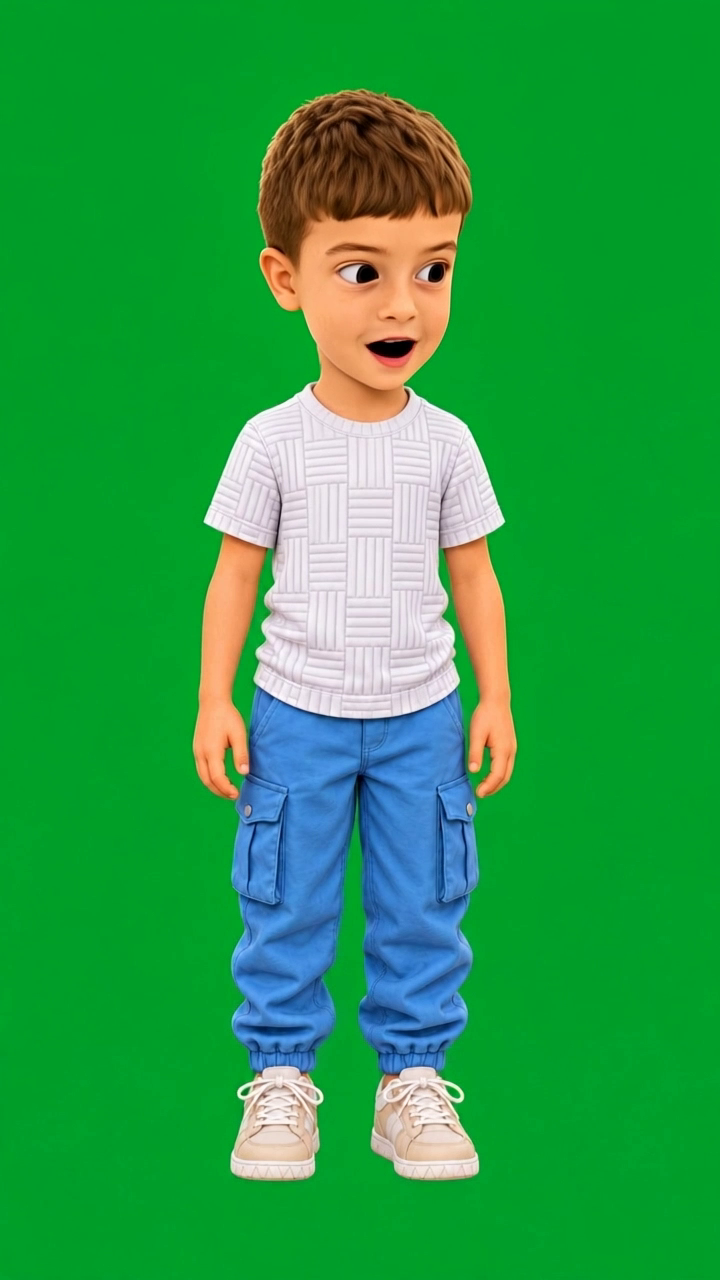
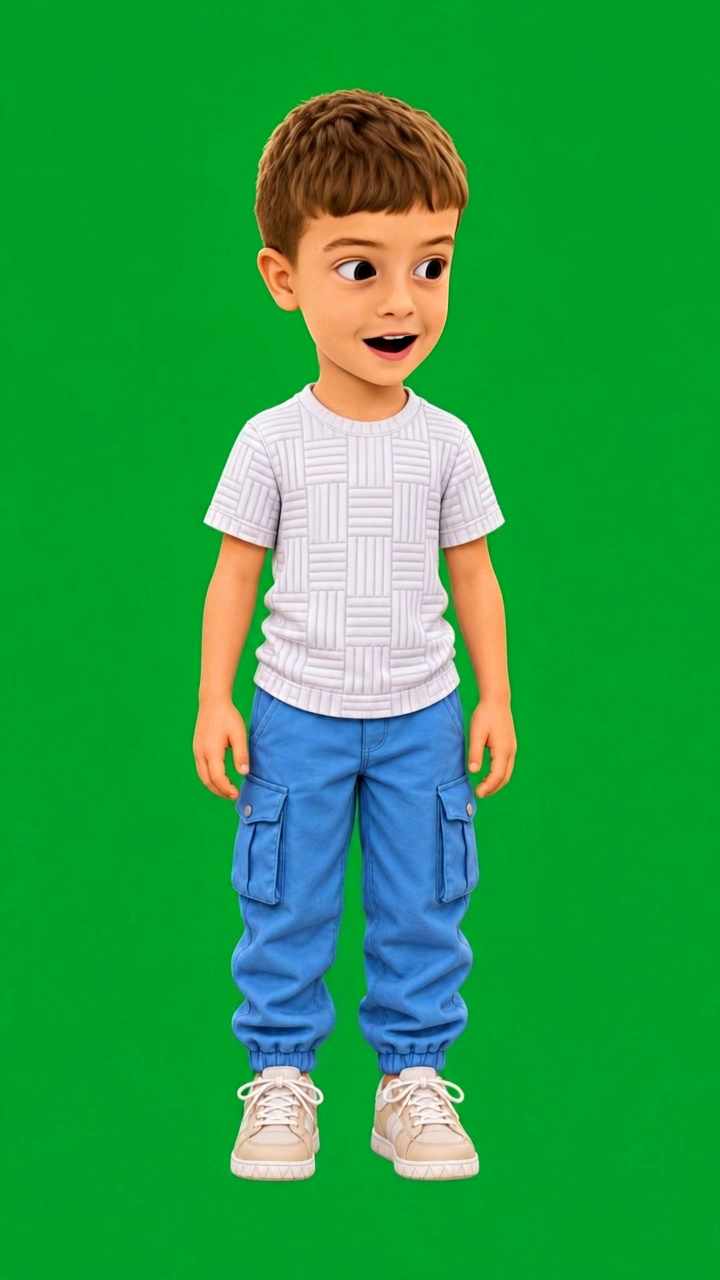
Яблоко: Лаэль говорит «עכשיו נבדוק», досмеиваясь, и сразу после смеха берёт ножик — без паузы; кто ест — сначала дожёвывает, потом говорят дальше; Арбель «рот открыт» — кадр 51 (выбор автора)

Changed region(s): [[0.3361, 0.0625, 0.6722, 0.3125], [0.4278, 0.25, 0.4583, 0.3125]]

diff --git a/js/game.js b/js/game.js
@@ -428,11 +428,13 @@ async function partA() {
   await wait(600);
   for (const l of KA.intro) await kl(l);
   hideSay();
-  const laughing = KIDS.laugh(ALL_KIDS);            // все смеются; Лаэль — «сейчас проверим» и режет, пока остальные ещё смеются
-  await wait(900);
-  await kl(KA.go);
-  hideSay();
-  await cutOnce(1, laughing);                      // первый разрез делает Лаэль
+  // все смеются; Лаэль, досмеиваясь, говорит «сейчас проверим» и, как только смех кончился, сразу берёт ножик — без паузы
+  const laughing = KIDS.laugh(ALL_KIDS);
+  await wait(1500);
+  const said = say(KA.go[1], { next: false });
+  await laughing;
+  await cutOnce(1, Promise.resolve());             // первый разрез делает Лаэль
+  await said; hideSay();
   for (let i = 1; i <= P.MANUAL_CUTS; i++) {
     if (i > 1) { await knifeTap(0); hideSay(); await cutOnce(i); }
     for (const l of KA.cut[i]) await kl(l);
@@ -473,7 +475,8 @@ async function cutOnce(i, byLael) {                // byLael — режет Ла
   eaten.remove(); const ch = KIDS.chew(who);
   await go(keep, { x: cx, ms: 380 });
   A.piece = keep;
-  if (i === 2) { await ch; await kl(T.kidsApple.yum); }
+  await ch;                                        // сначала дожёвывает — говорить и жевать сразу нельзя
+  if (i === 2) await kl(T.kidsApple.yum);
 }
 async function fastCuts() {
   hideSay();
